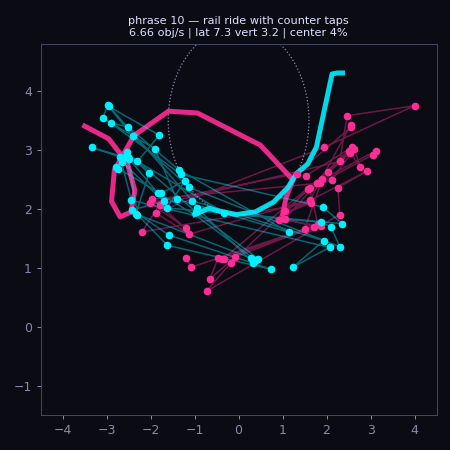
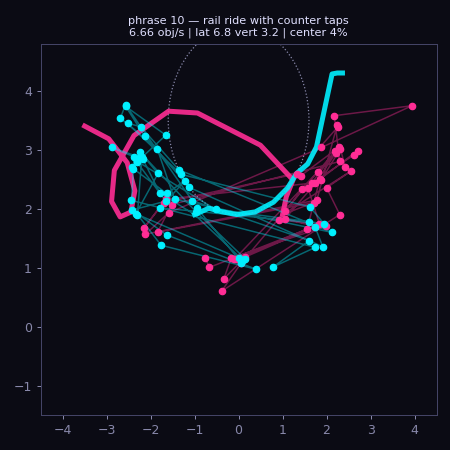
Tighten beat lock (drift+strong-onset calibration), rail-led intro, accent contrast
The four passes (BeatLock/IntroRail/PostWallRecovery/DancePhrase) shipped last
commit; this sharpens the two areas still flagged (timing + intro):
- BeatLockCalibration: calibrate against STRONG onsets (kicks/snares are
  tighter than hats), and fit error-vs-beat to detect BPM DRIFT (early-early/
  late-late) -> correct BPM, then remove residual offset bias. Fuego: avg err
  38.7->31.8ms, within ±20ms 23%->34%, ±50ms 70%->77% (no drift found here).
  Report prints BPM/offset calibration applied.
- Intro: density 0.40->0.26 and the lowest-energy phrases get 4-bar (16-beat)
  long rails. Intro now ~1.0 obj/s, rail-led (one big opening sweep + sparse
  downbeat accents) instead of tap streams.
- Dance contrast: strong beats 1.3x (visual anchors), weak beats 0.6x
  (connective) — downbeats read stronger.

Generator 99.0/100 Master; independent evaluator Master, no failures
(3.94 obj/s, center 7%, GrooveScore 0.88, 18 rails 0% straight). 79 tests pass.

Changed region(s): [[0.1867, 0.2178, 0.9333, 0.6533], [0.4667, 0.0622, 0.5289, 0.0933]]

diff --git a/synthcopilot/mapgen.py b/synthcopilot/mapgen.py
@@ -208,7 +208,10 @@ def generate_map(
             # phrases ("sweep") keep 1-bar pendulum sweeps gated to sustained
             # harmonic music.
             long_mode = ph.rail_mode == "long"
-            rail_len = 8.0 if long_mode else RAIL_SWEEP_BEATS
+            # The lowest-energy sections (intro) get the longest, slowest
+            # 4-bar rails; breakdown/outro use 2-bar rails.
+            rail_len = (16.0 if (long_mode and ph.intensity < 2.5)
+                        else 8.0 if long_mode else RAIL_SWEEP_BEATS)
             gap = 2.0 if long_mode else 4.0
             w = ph.start_beat + (1.0 if long_mode else 6.0)
             shape_cycle = 0
@@ -308,46 +311,63 @@ RECOVERY_BEATS = 2.0
 
 
 def _beat_lock_verify(track, diff, onsets) -> dict | None:
-    """BeatLockVerifier: measure strong-beat objects against the audio's
-    percussive onsets; if the whole map is consistently early/late, apply a
-    global offset correction so the grid sits ON the music.
+    """BeatLockCalibration: measure strong-beat objects against the audio's
+    percussive onsets, then calibrate the *grid* (not the objects):
 
-    Objects stay quantized to musical subdivisions (we never snap to raw
-    onsets); only the global offset moves.
+      1. fit timing error vs beat — a consistent slope means the BPM is
+         slightly off (drift); correct BPM;
+      2. remove any residual early/late bias by shifting the global offset.
+
+    Objects stay quantized to musical subdivisions; only BPM/offset move.
     """
     if not onsets:
         return None
-    onset_secs = np.array(sorted(t for t, _ in onsets))
-    if onset_secs.size < 8:
+    # Calibrate against STRONG onsets (kicks/snares are tighter than hats).
+    smax = max(s for _, s in onsets) or 1.0
+    strong = np.array(sorted(t for t, s in onsets if s / smax >= 0.4))
+    if strong.size < 12:
+        strong = np.array(sorted(t for t, _ in onsets))
+    if strong.size < 12:
         return None
 
     def errors():
         errs = []
         for n in diff.notes:
-            if abs(n.time - round(n.time)) > 0.02:   # strong (on-beat) objects only
+            if abs(n.time - round(n.time)) > 0.02:    # strong (on-beat) objects
                 continue
             ns = track.beats_to_seconds(n.time)
-            i = int(np.searchsorted(onset_secs, ns))
+            i = int(np.searchsorted(strong, ns))
             best = None
             for j in (i - 1, i):
-                if 0 <= j < onset_secs.size:
-                    d = ns - float(onset_secs[j])
+                if 0 <= j < strong.size:
+                    d = ns - float(strong[j])
                     if best is None or abs(d) < abs(best):
                         best = d
-            if best is not None and abs(best) <= 0.09:
+            if best is not None and abs(best) <= 0.075:
                 errs.append((n.time, best))
-            # unmatched strong notes are fine: not every beat has percussion
         return errs
 
-    errs = errors()
     corrected_ms = 0.0
-    if len(errs) >= 12:
-        bias = float(np.median([e for _, e in errs]))
-        # Consistent early/late bias -> shift the global offset (clamped >= 0).
-        if abs(bias) > 0.012 and track.offset - bias >= 0:
-            track.offset = track.offset - bias
-            corrected_ms = -bias * 1000.0
-            errs = errors()
+    bpm_corrected = 0.0
+    errs = errors()
+    if len(errs) >= 24:
+        beats = np.array([b for b, _ in errs])
+        errv = np.array([e for _, e in errs])
+        # 1. Drift: slope of error(sec) vs beat -> BPM is off.
+        slope, intercept = np.polyfit(beats, errv, 1)
+        if abs(slope) > 2e-4:                          # ~0.2 ms per beat
+            new_bpm = 1.0 / (1.0 / track.bpm - slope / 60.0)
+            if abs(new_bpm - track.bpm) < 3.0:         # only small, safe corrections
+                bpm_corrected = new_bpm - track.bpm
+                track.bpm = new_bpm
+                errs = errors()
+        # 2. Residual bias: shift the global offset.
+        if errs:
+            bias = float(np.median([e for _, e in errs]))
+            if abs(bias) > 0.010 and track.offset - bias >= 0:
+                track.offset -= bias
+                corrected_ms = -bias * 1000.0
+                errs = errors()
 
     if not errs:
         return {"matches": 0, "note": "no percussive matches; grid kept as detected"}
@@ -367,6 +387,7 @@ def _beat_lock_verify(track, diff, onsets) -> dict | None:
         "pct_50ms": round(float(np.mean(np.abs(e_ms) <= 50)), 2),
         "worst_section": f"phrase {worst[0]} ({float(np.median(worst[1])):+.0f}ms)",
         "corrected_offset_ms": round(corrected_ms, 1),
+        "corrected_bpm": round(bpm_corrected, 3),
     }
 
 

diff --git a/synthcopilot/phrases.py b/synthcopilot/phrases.py
@@ -45,10 +45,10 @@ STANCES = {
 #              accents — intros/breakdowns/outros); "sweep" = 1-bar sweeps
 #   body / relationship: the physical idea, for the plan and debug report
 PHRASE_GRAMMAR = {
-    "intro":     dict(density=0.40, subdiv=2, rails=True,  shatters=False, ramp=False,
+    "intro":     dict(density=0.26, subdiv=2, rails=True,  shatters=False, ramp=False,
                       fill=False, wall=False, rail_mode="long",
                       stances=["open_groove"],
-                      body="slow sweeping rails, sparse downbeat accents",
+                      body="long sweeping rails, sparse downbeat accents",
                       relationship="one-hand rail + sparse other-hand accents"),
     "verse":     dict(density=1.00, subdiv=2, rails=False, shatters=False, ramp=False,
                       fill=False, wall=False, rail_mode="sweep",

diff --git a/synthcopilot/cli.py b/synthcopilot/cli.py
@@ -202,8 +202,13 @@ def _print_debug_report(summary, track, bpm, offset, difficulty):
                   f"({bl['bias']})")
             print(f"  within ±20ms: {bl['pct_20ms']:.0%}  ±35ms: {bl['pct_35ms']:.0%}  "
                   f"±50ms: {bl['pct_50ms']:.0%}")
+            corr = []
+            if bl.get('corrected_bpm'):
+                corr.append(f"BPM {bl['corrected_bpm']:+.3f}")
+            if bl.get('corrected_offset_ms'):
+                corr.append(f"offset {bl['corrected_offset_ms']:+.0f}ms")
             print(f"  worst section: {bl['worst_section']}  "
-                  f"offset correction applied: {bl['corrected_offset_ms']}ms")
+                  f"calibration: {', '.join(corr) if corr else 'none needed'}")
 
     if phrases:
         from synthcopilot.dance import groove_for, payoff_for

diff --git a/synthcopilot/dance.py b/synthcopilot/dance.py
@@ -82,14 +82,15 @@ def beat_role(beat: float, phase: float, phrase) -> str:
 
 
 def _accent(role: str) -> float:
-    """Magnitude multiplier: strong beats reach the gesture's extreme."""
+    """Magnitude multiplier: strong beats reach the gesture's extreme and read
+    as the visual anchors; weak beats sit inner and connective."""
     if role.startswith("strong"):
-        return 1.15
+        return 1.3
     if role == "offbeat":
-        return 0.85
+        return 0.8
     if role == "fill":
         return 1.0
-    return 0.75
+    return 0.6
 
 
 # --- Gesture templates: (phase, side, amp, brightness, bar_idx, n_bars) -> xy #

diff --git a/synthcopilot/tests/test_mapgen.py b/synthcopilot/tests/test_mapgen.py
@@ -129,8 +129,8 @@ def test_macro_rails_span_wide():
     assert rails, "expected rails"
     spans = [max(n.x for n in r.nodes) - min(n.x for n in r.nodes) for r in rails]
     assert np.mean(spans) >= 4.0, f"rails too narrow (mean span {np.mean(spans):.1f})"
-    # Sweep rails stay <= 4 beats; Intro Rail Mode allows 2-bar (8-beat) rails.
-    assert all(r.nodes[-1].time - r.nodes[0].time <= 8.01 for r in rails)
+    # Sweep rails stay <= 4 beats; Intro Rail Mode allows up to 4-bar rails.
+    assert all(r.nodes[-1].time - r.nodes[0].time <= 16.01 for r in rails)
 
 
 def test_notes_avoid_head_zone():
